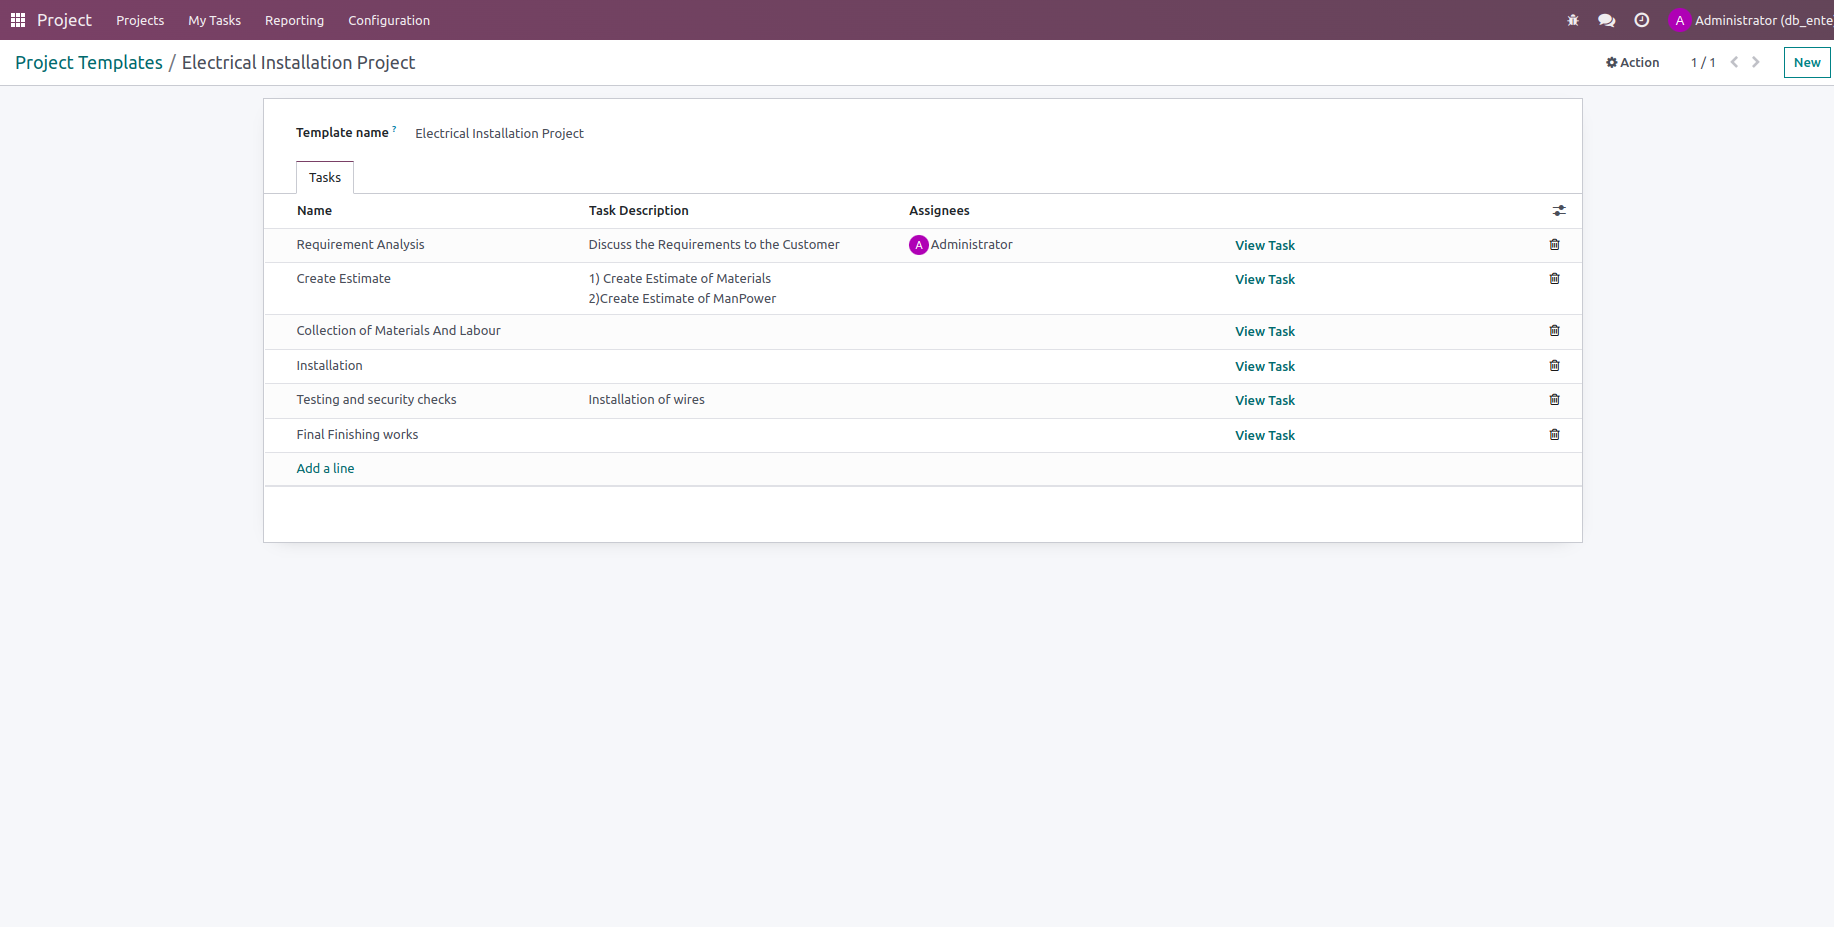
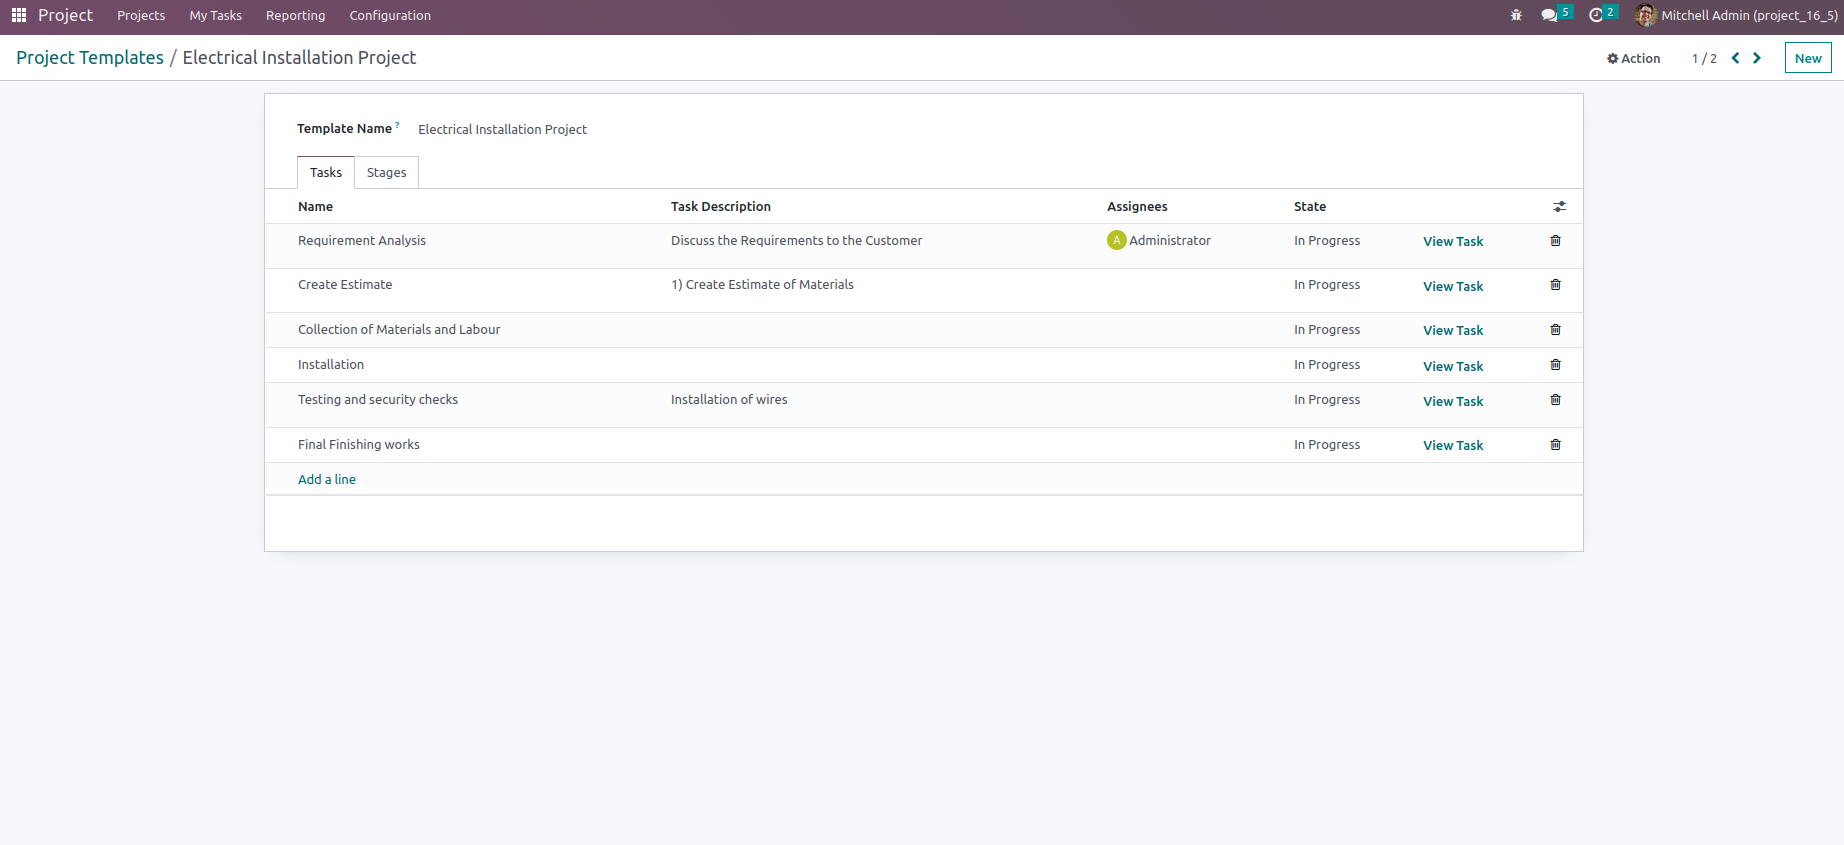
July 02: [FIX] Bug Fixed 'project_tasks_from_templates'

diff --git a/project_tasks_from_templates/models/project_project.py b/project_tasks_from_templates/models/project_project.py
@@ -1,10 +1,10 @@
 # -*- coding: utf-8 -*-
-################################################################################
+###############################################################################
 #
 #    Cybrosys Technologies Pvt. Ltd.
 #
-#    Copyright (C) 2023-TODAY Cybrosys Technologies(<https://www.cybrosys.com>).
-#    Author: Anfas Faisal K (odoo@cybrosys.info)
+#    Copyright (C) 2024-TODAY Cybrosys Technologies(<https://www.cybrosys.com>)
+#    Author: Cybrosys Techno Solutions (odoo@cybrosys.com)
 #
 #    You can modify it under the terms of the GNU AFFERO
 #    GENERAL PUBLIC LICENSE (AGPL v3), Version 3.
@@ -18,7 +18,7 @@
 #    (AGPL v3) along with this program.
 #    If not, see <http://www.gnu.org/licenses/>.
 #
-################################################################################
+###############################################################################
 from odoo import fields, models
 
 
@@ -44,15 +44,23 @@ class ProjectProject(models.Model):
         Returns:
             dict: Action configuration to open the project form.
         """
-        for item in self.project_template_id.task_ids:
-            self._create_task(item, False)
-        return {
-            'view_mode': 'form',
-            'res_model': 'project.project',
-            'res_id': self.id,
-            'type': 'ir.actions.act_window',
-            'context': self._context
-        }
+        if not self.project_template_id.stage_ids:
+            for item in self.project_template_id.task_ids:
+                self._create_task(item, False)
+            return {
+                'view_mode': 'form',
+                'res_model': 'project.project',
+                'res_id': self.id,
+                'type': 'ir.actions.act_window',
+                'context': self._context
+            }
+        else:
+            for item in self.project_template_id.stage_ids:
+                if self.id not in item.project_stage_id.project_ids.ids:
+                    item.project_stage_id.project_ids = [(4, self.id)]
+                for task in item.task_ids:
+                    self._create_task_with_stage(task, item.project_stage_id,
+                                                 False)
 
     def _create_task(self, item, parent):
         """Creates a new project task for the given item and attaches it to
@@ -61,6 +69,7 @@ class ProjectProject(models.Model):
             item (models.Model): project task
             parent (int): id of parent project task
         """
+
         task = self.env['project.task'].sudo().create({
             'project_id': self.id,
             'name': item.name,
@@ -68,7 +77,28 @@ class ProjectProject(models.Model):
             'stage_id': self.env['project.task.type'].search(
                 [('sequence', '=', 1)], limit=1).id,
             'user_ids': item.user_ids,
-            'description': item.description
-            })
+            'description': item.description,
+            'kanban_state': item.state or 'normal',
+        })
         for sub_task in item.child_ids:
             self._create_task(sub_task, task.id)
+
+    def _create_task_with_stage(self, item, stage, parent=False):
+        """Creates a new project task with stage for the given item and attaches it to
+        the current project.
+        Args:
+            item (models.Model): project task
+            parent (int): id of parent project task
+        """
+
+        task = self.env['project.task'].sudo().create({
+            'project_id': self.id,
+            'name': item.name,
+            'parent_id': parent,
+            'stage_id': stage.id,
+            'user_ids': item.user_ids,
+            'description': item.description,
+            'kanban_state': item.state or 'normal',
+        })
+        for sub_task in item.child_ids:
+            self._create_task_with_stage(sub_task, stage, task.id)

diff --git a/project_tasks_from_templates/models/project_task_template.py b/project_tasks_from_templates/models/project_task_template.py
@@ -1,10 +1,10 @@
 # -*- coding: utf-8 -*-
-################################################################################
+###############################################################################
 #
 #    Cybrosys Technologies Pvt. Ltd.
 #
-#    Copyright (C) 2023-TODAY Cybrosys Technologies(<https://www.cybrosys.com>).
-#    Author: Anfas Faisal K (odoo@cybrosys.info)
+#    Copyright (C) 2024-TODAY Cybrosys Technologies(<https://www.cybrosys.com>)
+#    Author: Cybrosys Techno Solutions (odoo@cybrosys.com)
 #
 #    You can modify it under the terms of the GNU AFFERO
 #    GENERAL PUBLIC LICENSE (AGPL v3), Version 3.
@@ -18,12 +18,12 @@
 #    (AGPL v3) along with this program.
 #    If not, see <http://www.gnu.org/licenses/>.
 #
-################################################################################
-from odoo import fields, models
+###############################################################################
+from odoo import fields, models , api
 
 
 class ProjectTaskTemplate(models.Model):
-    """    A model to define task templates for projects."""
+    """A model to define task templates for projects."""
     _name = 'project.task.template'
     _description = 'Project Task Template'
 
@@ -33,3 +33,32 @@ class ProjectTaskTemplate(models.Model):
         'project.task.custom', 'project_template_id',
         string='Tasks',
         help='List of the tasks associated with this template.')
+    stage_ids = fields.One2many(
+        'project.stage', 'project_template_id',
+        string='Stages',
+        help='List of the stages associated with this template.')
+
+
+class ProjectStage(models.Model):
+    """A model to define task templates for projects."""
+    _name = 'project.stage'
+    _order = "sequence,id"
+
+    project_template_id = fields.Many2one(
+        'project.task.template', string='Project Template',
+        help='Select a project task template to use for this task.')
+    project_stage_id = fields.Many2one(
+        'project.task.type', string='Project Stage',
+        help='Select a project stage. ',required=True)
+    task_ids = fields.Many2many(
+        'project.task.custom',
+        help='Choose the tasks corresponding to each stage')
+
+    sequence = fields.Integer(related="project_stage_id.sequence",readonly=False)
+
+
+class ProjectTaskType(models.Model):
+    _inherit = "project.task.type"
+
+    project_template_id = fields.Many2one(
+        'project.task.template')

diff --git a/project_tasks_from_templates/models/project_task_custom.py b/project_tasks_from_templates/models/project_task_custom.py
@@ -1,10 +1,10 @@
 # -*- coding: utf-8 -*-
-################################################################################
+###############################################################################
 #
 #    Cybrosys Technologies Pvt. Ltd.
 #
-#    Copyright (C) 2023-TODAY Cybrosys Technologies(<https://www.cybrosys.com>).
-#    Author: Anfas Faisal K (odoo@cybrosys.info)
+#    Copyright (C) 2024-TODAY Cybrosys Technologies(<https://www.cybrosys.com>)
+#    Author: Cybrosys Techno Solutions (odoo@cybrosys.com)
 #
 #    You can modify it under the terms of the GNU AFFERO
 #    GENERAL PUBLIC LICENSE (AGPL v3), Version 3.
@@ -18,7 +18,7 @@
 #    (AGPL v3) along with this program.
 #    If not, see <http://www.gnu.org/licenses/>.
 #
-################################################################################
+###############################################################################
 from odoo import fields, models
 
 
@@ -27,8 +27,7 @@ class ProjectTaskCustom(models.Model):
     and sub-tasks
     Methods:
         action_open_task():
-            Returns an action to open the current task in a form view
-    """
+            Returns an action to open the current task in a form view"""
     _name = 'project.task.custom'
     _description = 'Project Task Custom'
 
@@ -53,6 +52,12 @@ class ProjectTaskCustom(models.Model):
         compute='_compute_show_tasks_page',
         string="Show Tasks Page",
         readonly=False)
+
+    state = fields.Selection([
+        ('normal', 'In Progress'),
+        ('done', 'Ready'),
+        ('blocked', 'Blocked')], string='State',
+        default='normal', required=True)
 
     def action_open_task(self):
         """ Action method to open the current task in a form view.

diff --git a/project_tasks_from_templates/__manifest__.py b/project_tasks_from_templates/__manifest__.py
@@ -1,10 +1,10 @@
 # -*- coding: utf-8 -*-
-################################################################################
+###############################################################################
 #
 #    Cybrosys Technologies Pvt. Ltd.
 #
-#    Copyright (C) 2023-TODAY Cybrosys Technologies(<https://www.cybrosys.com>).
-#    Author: Anfas Faisal K (odoo@cybrosys.info)
+#    Copyright (C) 2024-TODAY Cybrosys Technologies(<https://www.cybrosys.com>)
+#    Author: Cybrosys Techno Solutions (odoo@cybrosys.com)
 #
 #    You can modify it under the terms of the GNU AFFERO
 #    GENERAL PUBLIC LICENSE (AGPL v3), Version 3.
@@ -18,7 +18,7 @@
 #    (AGPL v3) along with this program.
 #    If not, see <http://www.gnu.org/licenses/>.
 #
-################################################################################
+###############################################################################
 {
     'name': 'Project Templates',
     'version': '16.0.1.0.0',
@@ -40,9 +40,9 @@
         'security/ir.model.access.csv',
         'views/project_project_views.xml',
         'views/project_task_custom_views.xml',
-        'views/project_task_template_views.xml'
+        'views/project_task_template_views.xml',
     ],
-    'images': ['static/description/banner.png'],
+    'images': ['static/description/banner.jpg'],
     'license': 'AGPL-3',
     'installable': True,
     'auto_install': False,

diff --git a/project_tasks_from_templates/models/__init__.py b/project_tasks_from_templates/models/__init__.py
@@ -1,10 +1,10 @@
 # -*- coding: utf-8 -*-
-################################################################################
+###############################################################################
 #
 #    Cybrosys Technologies Pvt. Ltd.
 #
-#    Copyright (C) 2023-TODAY Cybrosys Technologies(<https://www.cybrosys.com>).
-#    Author: Anfas Faisal K (odoo@cybrosys.info)
+#    Copyright (C) 2024-TODAY Cybrosys Technologies(<https://www.cybrosys.com>)
+#    Author: Cybrosys Techno Solutions (odoo@cybrosys.com)
 #
 #    You can modify it under the terms of the GNU AFFERO
 #    GENERAL PUBLIC LICENSE (AGPL v3), Version 3.
@@ -18,7 +18,7 @@
 #    (AGPL v3) along with this program.
 #    If not, see <http://www.gnu.org/licenses/>.
 #
-################################################################################
+###############################################################################
 from . import project_project
 from . import project_task_custom
 from . import project_task_template

diff --git a/project_tasks_from_templates/__init__.py b/project_tasks_from_templates/__init__.py
@@ -1,10 +1,10 @@
 # -*- coding: utf-8 -*-
-################################################################################
+###############################################################################
 #
 #    Cybrosys Technologies Pvt. Ltd.
 #
-#    Copyright (C) 2023-TODAY Cybrosys Technologies(<https://www.cybrosys.com>).
-#    Author: Anfas Faisal K (odoo@cybrosys.info)
+#    Copyright (C) 2024-TODAY Cybrosys Technologies(<https://www.cybrosys.com>)
+#    Author: Cybrosys Techno Solutions (odoo@cybrosys.com)
 #
 #    You can modify it under the terms of the GNU AFFERO
 #    GENERAL PUBLIC LICENSE (AGPL v3), Version 3.
@@ -18,5 +18,5 @@
 #    (AGPL v3) along with this program.
 #    If not, see <http://www.gnu.org/licenses/>.
 #
-################################################################################
+###############################################################################
 from . import models

diff --git a/project_tasks_from_templates/README.rst b/project_tasks_from_templates/README.rst
@@ -6,9 +6,14 @@ Project Templates
 =================
 This module will help you to create projects and tasks from templates.
 
+Features
+========
+* Allows to create project from project template.
+* Multiple levels of tasks and sub tasks from template.
+
 Configuration
 =============
-* No additional configurations needed
+Nothing to configure.
 
 License
 -------
@@ -21,8 +26,9 @@ Company
 
 Credits
 -------
-* Developers (V15) 	Ajmunnisa KP, Contact : odoo@cybrosys.com
-             (V16) 	Anfas Faisal K, Contact : odoo@cybrosys.com
+* Developers (V15) 	Ajmunnisa KP,
+             (V16) 	Anfas Faisal K,
+  Contact: odoo@cybrosys.com
 
 Contacts
 --------
@@ -39,6 +45,8 @@ Maintainer
    :target: https://cybrosys.com
 
 This module is maintained by Cybrosys Technologies.
+
+For support and more information, please visit `Our Website <https://cybrosys.com/>`__
 
 Further information
 ===================

diff --git a/project_tasks_from_templates/doc/RELEASE_NOTES.md b/project_tasks_from_templates/doc/RELEASE_NOTES.md
@@ -1,7 +1,5 @@
 ## Module <project_tasks_from_templates>
-
-#### 06.11.2023
+#### 09.01.2024
 #### Version 16.0.1.0.0
 #### ADD
-
 - Initial Commit for Project Templates
